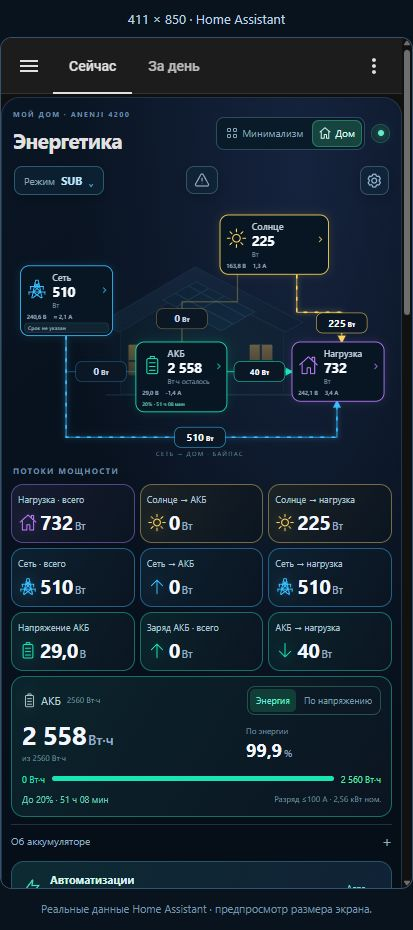
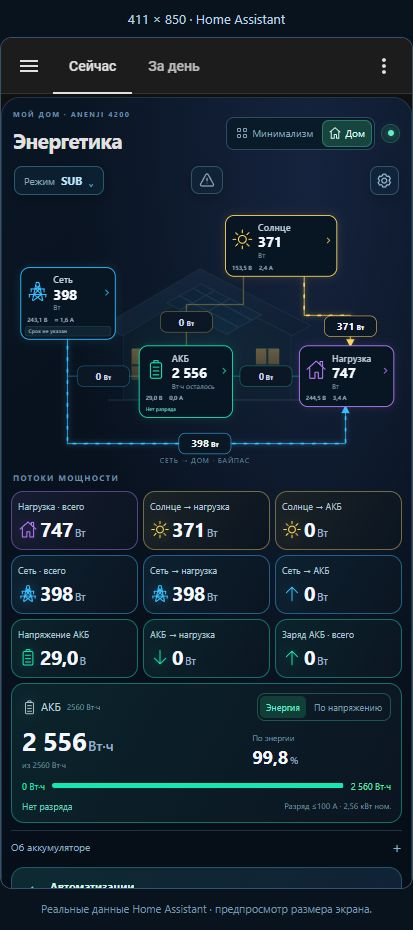
Swap battery and load flow columns

Changed region(s): [[0.0291, 0.0312, 1.0, 0.9667], [0.9007, 0.0624, 0.9298, 0.0935]]

diff --git a/energetika-card.js b/energetika-card.js
@@ -9,7 +9,7 @@ export function formatRuntime(minutes) {
   const total=Math.floor(minutes);
   return total===0?'0 мин':`${Math.floor(total/60)} ч ${String(total%60).padStart(2,'0')} мин`;
 }
-/* Energetika 2.13.2 — local Home Assistant card, no external dependencies. */
+/* Energetika 2.13.3 — local Home Assistant card, no external dependencies. */
 const ROOT = 'sensor.anenji_4200_protocol_1_';
 const SOURCE_MODES = [
   {code:'UTI', option:'Utility First (UTI)', description:'Сеть в приоритете'},
@@ -250,14 +250,14 @@ class EnergetikaCard extends HTMLElement {
     <section class="flow-panel"><div class="section-label">ПОТОКИ МОЩНОСТИ <span style="color:#3f5e76">/ НАЖМИТЕ НА ЧИСЛО ДЛЯ ИСТОРИИ</span></div>
     <div class="tiles">
       ${this._tile('load','Нагрузка · всего','Потребление дома','home','home')}
-      ${this._tile('pv_battery','Солнце → АКБ','Заряд от солнечных панелей','sun','solar')}
       ${this._tile('pv_load','Солнце → нагрузка','Солнечная энергия для дома','sun','solar')}
+      ${this._tile('pv_battery','Солнце → АКБ','Заряд от солнечных панелей','sun','solar')}
       ${this._tile('grid','Сеть · всего','Общий забор из сети','grid','grid')}
-      ${this._tile('grid_battery','Сеть → АКБ','Заряд от электросети','up','grid')}
       ${this._tile('grid_load','Сеть → нагрузка','Питание через байпас','grid','grid')}
+      ${this._tile('grid_battery','Сеть → АКБ','Заряд от электросети','up','grid')}
       <button class="tile battery" data-key="voltage" title="История напряжения аккумулятора">${icon('battery')}<span class="tile-body"><span class="tile-title">Напряжение АКБ</span><strong>${value('voltage','В')}</strong></span></button>
-      ${this._tile('charge','Заряд АКБ · всего','Сеть + солнце','up','battery')}
       ${this._tile('battery_load','АКБ → нагрузка','Разряд аккумулятора в дом','down','battery')}
+      ${this._tile('charge','Заряд АКБ · всего','Сеть + солнце','up','battery')}
     </div></section>
       <div class="tile battery battery-summary">
         <div class="battery-top"><div class="battery-title">${icon('battery')}АКБ <span class="nameplate" data-battery-nameplate>2560 Вт·ч</span></div><div class="mode-switch" role="group" aria-label="Способ оценки заряда"><button data-mode="energy" aria-pressed="true">Энергия</button><button data-mode="voltage" aria-pressed="false">По напряжению</button></div></div>

diff --git a/build_deploy.py b/build_deploy.py
@@ -39,7 +39,7 @@ def main():
     control_module.install(root)
     backup=root/('energetika-ui-backup-'+datetime.now(timezone.utc).strftime('%%Y%%m%%dT%%H%%M%%SZ'))
     backup.mkdir()
-    for name,destination in [('energetika.yaml','energetika.yaml'),('energetika-card.js','www/energetika-card.js'),('energetika-card.js','www/energetika-card-2.13.2.js'),('energetika-history.js','www/energetika-history.js'),('energetika-date.js','www/energetika-date.js'),('energetika-settings.js','www/energetika-settings.js'),('energetika-automation.js','www/energetika-automation.js'),('energetika-data.js','www/energetika-data.js'),('energetika-alerts.js','www/energetika-alerts.js'),('energetika-hourly.js','www/energetika-hourly.js'),('energetika-dtek.js','www/energetika-dtek.js')]+[(name,name) for name in files if name.startswith('custom_components/energetika_dtek/')]:
+    for name,destination in [('energetika.yaml','energetika.yaml'),('energetika-card.js','www/energetika-card.js'),('energetika-card.js','www/energetika-card-2.13.3.js'),('energetika-history.js','www/energetika-history.js'),('energetika-date.js','www/energetika-date.js'),('energetika-settings.js','www/energetika-settings.js'),('energetika-automation.js','www/energetika-automation.js'),('energetika-data.js','www/energetika-data.js'),('energetika-alerts.js','www/energetika-alerts.js'),('energetika-hourly.js','www/energetika-hourly.js'),('energetika-dtek.js','www/energetika-dtek.js')]+[(name,name) for name in files if name.startswith('custom_components/energetika_dtek/')]:
         path=root/destination
         if path.is_symlink():raise SystemExit('Refusing symlink: '+str(path))
         path.parent.mkdir(parents=True,exist_ok=True)
@@ -51,7 +51,7 @@ def main():
         temporary.write_text(files[name],encoding='utf-8')
         temporary.replace(path)
     print('UI and YAML installed; backup:',backup)
-    print('Restart Home Assistant; update resource URL to /local/energetika-card-2.13.2.js')
+    print('Restart Home Assistant; update resource URL to /local/energetika-card-2.13.3.js')
 if __name__=='__main__': main()
 ''' % payload
 Path('.deploy').mkdir(exist_ok=True)

diff --git a/docs/INSTALL.uk.md b/docs/INSTALL.uk.md
@@ -35,7 +35,7 @@ homeassistant:
 
 Не створюйте другу секцію `homeassistant`. Якщо пакети вже підключені каталогом, скористайтеся наявною схемою.
 
-Скопіюйте **дев’ять** файлів `energetika-card.js`, `energetika-history.js`, `energetika-date.js`, `energetika-settings.js`, `energetika-automation.js`, `energetika-data.js`, `energetika-alerts.js`, `energetika-hourly.js` та `energetika-dtek.js` до `www`. Створіть у `www` також копію `energetika-card.js` з назвою `energetika-card-2.13.2.js` для головного ресурсу. Головна картка імпортує історію та налаштування відносними шляхами. У Налаштування → Інформаційні панелі → Ресурси додайте `/local/energetika-card-2.13.2.js`, тип **Модуль JavaScript**. Додаткові ресурси для імпортованих модулів не потрібні.
+Скопіюйте **дев’ять** файлів `energetika-card.js`, `energetika-history.js`, `energetika-date.js`, `energetika-settings.js`, `energetika-automation.js`, `energetika-data.js`, `energetika-alerts.js`, `energetika-hourly.js` та `energetika-dtek.js` до `www`. Створіть у `www` також копію `energetika-card.js` з назвою `energetika-card-2.13.3.js` для головного ресурсу. Головна картка імпортує історію та налаштування відносними шляхами. У Налаштування → Інформаційні панелі → Ресурси додайте `/local/energetika-card-2.13.3.js`, тип **Модуль JavaScript**. Додаткові ресурси для імпортованих модулів не потрібні.
 
 При першому створенні `www` може знадобитися перезапуск. Перевірте конфігурацію через інструменти YAML перед перезапуском.
 
@@ -276,16 +276,16 @@ REST-запит тепер також отримує погодинні `tempera
 [Таймери в реальному Home Assistant](screenshots/automation-countdowns.jpg) · [Таймери на телефоні](screenshots/mobile-automation-countdowns.jpg).
 
 
-## Логічна сітка плиток · 2.13.2
+## Логічна сітка плиток · 2.13.3
 
 Головні потоки мають постійний порядок у три стовпці:
 
-- Верхній ряд: **навантаження загалом; сонце → АКБ; сонце → навантаження**.
-- Середній ряд: **мережа загалом; мережа → АКБ; мережа → навантаження**.
-- Нижній ряд: **напруга АКБ; заряд АКБ загалом; АКБ → навантаження**.
+- Верхній ряд: **навантаження загалом; сонце → навантаження; сонце → АКБ**.
+- Середній ряд: **мережа загалом; мережа → навантаження; мережа → АКБ**.
+- Нижній ряд: **напруга АКБ; АКБ → навантаження; заряд АКБ загалом**.
 
 На широкому екрані сітка теж має три стовпці. Плитка заряджання більше не займає окремий широкий ряд. Обидва види візуалізації використовують спільний порядок і ті самі обробники відкриття графіків.
 
-Для оновлення замініть `energetika-card.js`, створіть поруч його копію `energetika-card-2.13.2.js` та змініть головний ресурс на `/local/energetika-card-2.13.2.js`. Перезавантажте екран застосунку. Перезапуск Home Assistant і зміна YAML для цієї компоновки не потрібні.
+Для оновлення замініть `energetika-card.js`, створіть поруч його копію `energetika-card-2.13.3.js` та змініть головний ресурс на `/local/energetika-card-2.13.3.js`. Перезавантажте екран застосунку. Перезапуск Home Assistant і зміна YAML для цієї компоновки не потрібні.
 
 [Сітка на телефоні](screenshots/logical-flow-grid-mobile.jpg) · [Сітка на комп’ютері](screenshots/logical-flow-grid-desktop.jpg).
